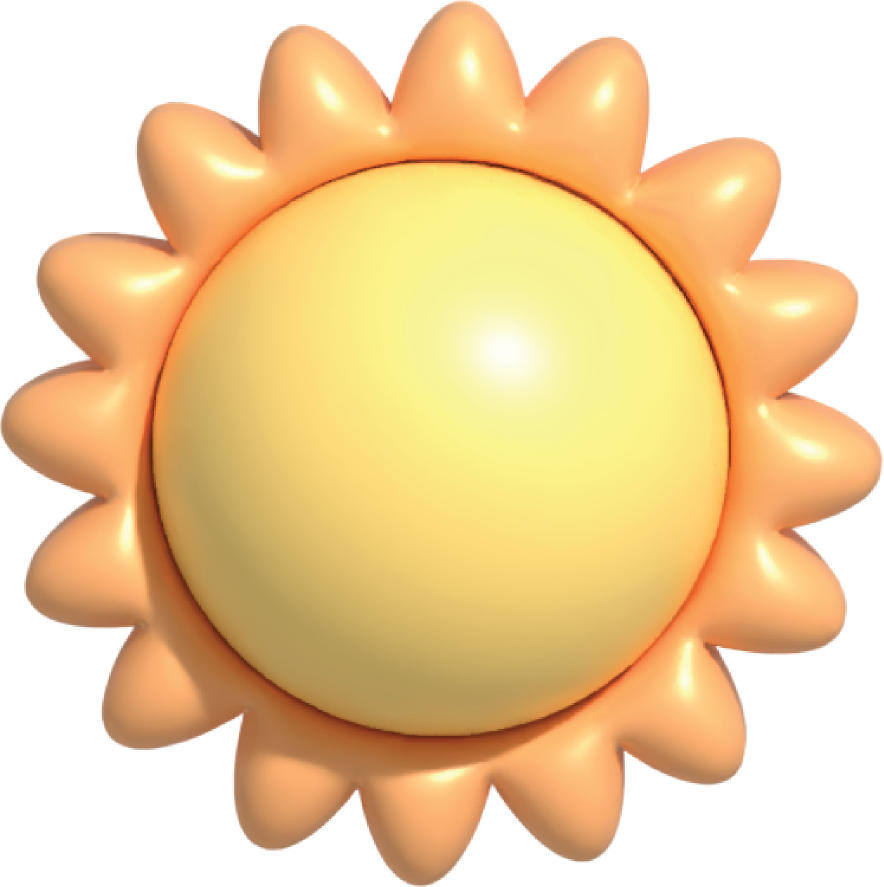
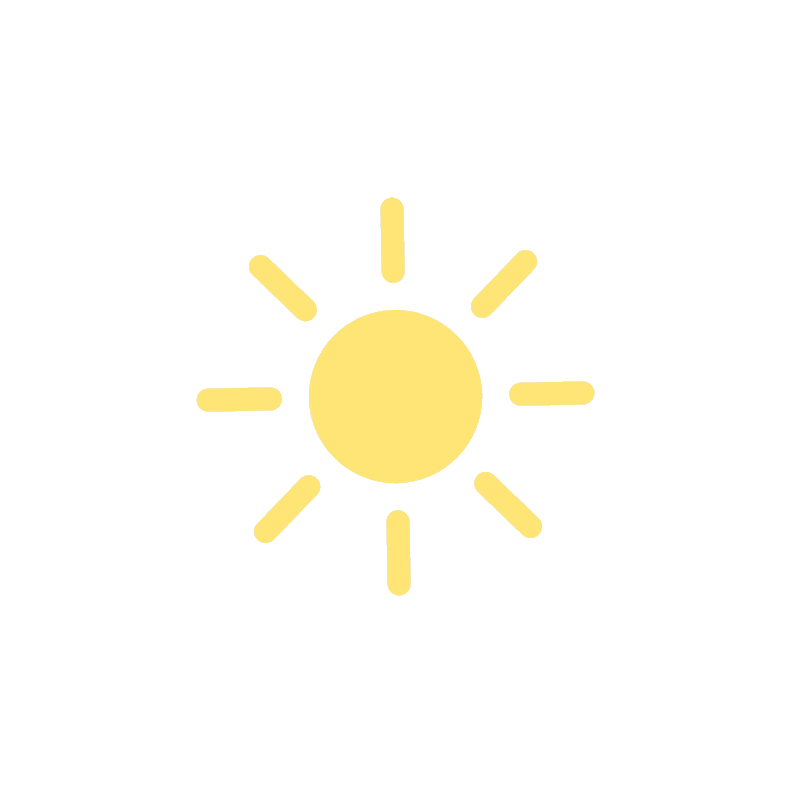
images change + weatherImagePIcker function running

diff --git a/lib/models/weather_infos_model.dart b/lib/models/weather_infos_model.dart
@@ -41,33 +41,7 @@ Future<WeatherInfos> getWeather(double latitude, double longitude) async {
       'https://api.openweathermap.org/data/2.5/weather?lat=$latitude&lon=$longitude&appid=$apiKey'));
 
   if (response.statusCode == 200) {
-    // dynamic data = jsonDecode(response.body);
-
-    // Map<String, dynamic> iterateMap(Map<String, dynamic> object) {
-    //   Map<String, dynamic> result = {};
-    //   object.forEach((key, value) {
-    //     result[key] = value;
-    //   });
-    //   return result;
-    // }
-
-    // Map<String, dynamic> coord = {'coord': iterateMap(data['coord'])};
-    // Map<String, dynamic> main = {'main': iterateMap(data['main'])};
-    // // List<Map<String, dynamic>> weather = iterateMap(data['weather']);
-    // Map<String, dynamic> wind = {'wind': iterateMap(data['wind'])};
-    // Map<String, dynamic> clouds = {'clouds': iterateMap(data['clouds'])};
-    // Map<String, dynamic> sys = {'sys': iterateMap(data['sys'])};
-
     return WeatherInfos.fromJson(jsonDecode(response.body));
-
-    // return WeatherInfos(
-    //   coord: coord,
-    //   // weather: weather,
-    //   main: main,
-    //   wind: wind,
-    //   clouds: clouds,
-    //   sys: sys,
-    // );
   } else {
     throw Exception('Échec du chargement des informations météorologiques');
   }

diff --git a/lib/services/services.dart b/lib/services/services.dart
@@ -16,3 +16,43 @@ String kelvinToDeg(double kelvin) {
   String temp = (kelvin - 273.15).toStringAsFixed(1);
   return temp;
 }
+
+String weatherImagePicker(int id) {
+  String result = "";
+  switch (id) {
+    case >= 200 && <= 299:
+      result = 'thunder.png';
+      break;
+    case >= 300 && <= 310:
+      result = 'drizzle.png';
+      break;
+    case >= 311 && <= 399:
+      result = 'cloud-drizzle.png';
+      break;
+    case >= 500 && <= 6:
+      result = 'humidity.png';
+      break;
+    case >= 511 && <= 599:
+      result = 'heavy-rain.png';
+      break;
+    case >= 600 && <= 610:
+      result = 'snow-big.png';
+      break;
+    case >= 611 && <= 699:
+      result = 'snow.png';
+      break;
+    case >= 700 && <= 799:
+      result = 'fog.png';
+      break;
+    case == 800:
+      result = 'fog.png';
+      break;
+    case 801 || 802:
+      result = 'sun-cloud.png';
+      break;
+    case 803 || 804:
+      result = 'cloud.png';
+      break;
+  }
+  return 'assets/images/$result';
+}

diff --git a/lib/models/location_model.dart b/lib/models/location_model.dart
@@ -30,7 +30,6 @@ class LocationModel extends ChangeNotifier {
     location['weather']['sys'] = infos.sys;
     location['weather']['name'] = infos.name;
 
-
     notifyListeners();
   }
 }
